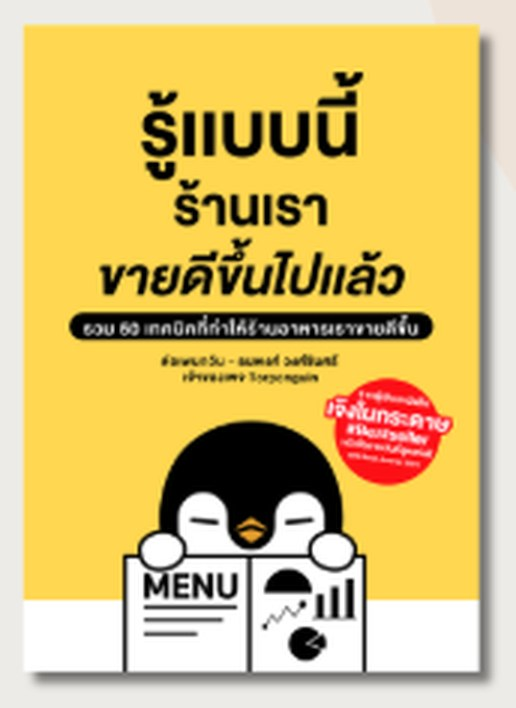
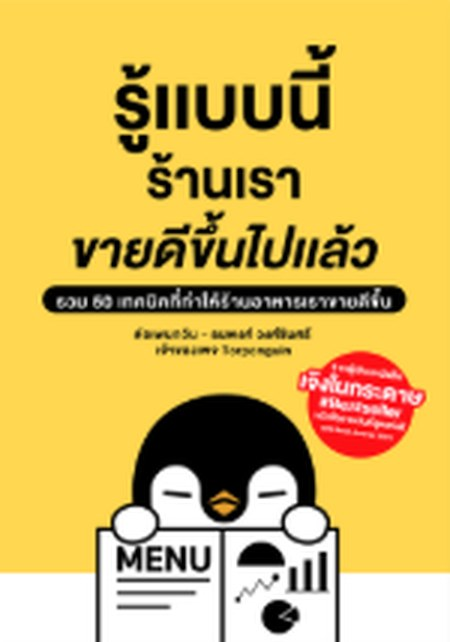
Books: tight cover crops (no frame), red Best Seller badges straddling the top edge
Claude-Session: https://claude.ai/code/session_016YPeq4VWgnC7aNMPs6tVV1

diff --git a/th/index.html b/th/index.html
@@ -781,32 +781,32 @@
   </div>
   <ol class="book-row">
     <li class="book">
-      <div class="book-cover"><span class="book-badge">Best Seller</span><img src="/ecosystem/Education/Publishing/covers/restaurant-bible.jpg" alt="Restaurant Bible" loading="lazy" decoding="async" width="516" height="708"></div>
+      <div class="book-cover"><span class="book-badge">Best Seller</span><img src="/ecosystem/Education/Publishing/covers/restaurant-bible.jpg" alt="Restaurant Bible" loading="lazy" decoding="async" width="453" height="639"></div>
       <div class="book-cat">เริ่มธุรกิจ</div>
       <div class="book-title">Restaurant Bible</div>
     </li>
     <li class="book">
-      <div class="book-cover"><img src="/ecosystem/Education/Publishing/covers/restaurant-101.jpg" alt="Restaurant 101" loading="lazy" decoding="async" width="516" height="708"></div>
+      <div class="book-cover"><img src="/ecosystem/Education/Publishing/covers/restaurant-101.jpg" alt="Restaurant 101" loading="lazy" decoding="async" width="423" height="633"></div>
       <div class="book-cat">บริหารร้าน</div>
       <div class="book-title">Restaurant 101</div>
     </li>
     <li class="book">
-      <div class="book-cover"><img src="/ecosystem/Education/Publishing/covers/food-delivery-101.jpg" alt="Food Delivery 101" loading="lazy" decoding="async" width="516" height="708"></div>
+      <div class="book-cover"><img src="/ecosystem/Education/Publishing/covers/food-delivery-101.jpg" alt="Food Delivery 101" loading="lazy" decoding="async" width="426" height="633"></div>
       <div class="book-cat">ฟู้ดเดลิเวอรี</div>
       <div class="book-title">Food Delivery 101</div>
     </li>
     <li class="book">
-      <div class="book-cover"><span class="book-badge">No.1 Best Seller</span><img src="/ecosystem/Education/Publishing/covers/jeng-nai-kradat.jpg" alt="เจ๊งในกระดาษ" loading="lazy" decoding="async" width="516" height="708"></div>
+      <div class="book-cover"><span class="book-badge">No.1 Best Seller</span><img src="/ecosystem/Education/Publishing/covers/jeng-nai-kradat.jpg" alt="เจ๊งในกระดาษ" loading="lazy" decoding="async" width="441" height="645"></div>
       <div class="book-cat">ศึกษาความเป็นไปได้</div>
       <div class="book-title">เจ๊งในกระดาษ</div>
     </li>
     <li class="book">
-      <div class="book-cover"><img src="/ecosystem/Education/Publishing/covers/marketing.jpg" alt="รู้แบบนี้ร้านเราขายดีขึ้นไปแล้ว" loading="lazy" decoding="async" width="516" height="708"></div>
+      <div class="book-cover"><img src="/ecosystem/Education/Publishing/covers/marketing.jpg" alt="รู้แบบนี้ร้านเราขายดีขึ้นไปแล้ว" loading="lazy" decoding="async" width="450" height="642"></div>
       <div class="book-cat">การตลาด</div>
       <div class="book-title">รู้แบบนี้ร้านเราขายดีขึ้นไปแล้ว</div>
     </li>
     <li class="book">
-      <div class="book-cover"><img src="/ecosystem/Education/Publishing/covers/cafe-startup.jpg" alt="Cafe Startup" loading="lazy" decoding="async" width="516" height="708"></div>
+      <div class="book-cover"><img src="/ecosystem/Education/Publishing/covers/cafe-startup.jpg" alt="Cafe Startup" loading="lazy" decoding="async" width="450" height="642"></div>
       <div class="book-cat">คาเฟ่</div>
       <div class="book-title">Cafe Startup</div>
     </li>

diff --git a/ja/index.html b/ja/index.html
@@ -781,32 +781,32 @@
   </div>
   <ol class="book-row">
     <li class="book">
-      <div class="book-cover"><span class="book-badge">ベストセラー</span><img src="/ecosystem/Education/Publishing/covers/restaurant-bible.jpg" alt="Restaurant Bible" loading="lazy" decoding="async" width="516" height="708"></div>
+      <div class="book-cover"><span class="book-badge">ベストセラー</span><img src="/ecosystem/Education/Publishing/covers/restaurant-bible.jpg" alt="Restaurant Bible" loading="lazy" decoding="async" width="453" height="639"></div>
       <div class="book-cat">開業</div>
       <div class="book-title">Restaurant Bible</div>
     </li>
     <li class="book">
-      <div class="book-cover"><img src="/ecosystem/Education/Publishing/covers/restaurant-101.jpg" alt="Restaurant 101" loading="lazy" decoding="async" width="516" height="708"></div>
+      <div class="book-cover"><img src="/ecosystem/Education/Publishing/covers/restaurant-101.jpg" alt="Restaurant 101" loading="lazy" decoding="async" width="423" height="633"></div>
       <div class="book-cat">店舗運営</div>
       <div class="book-title">Restaurant 101</div>
     </li>
     <li class="book">
-      <div class="book-cover"><img src="/ecosystem/Education/Publishing/covers/food-delivery-101.jpg" alt="Food Delivery 101" loading="lazy" decoding="async" width="516" height="708"></div>
+      <div class="book-cover"><img src="/ecosystem/Education/Publishing/covers/food-delivery-101.jpg" alt="Food Delivery 101" loading="lazy" decoding="async" width="426" height="633"></div>
       <div class="book-cat">フードデリバリー</div>
       <div class="book-title">Food Delivery 101</div>
     </li>
     <li class="book">
-      <div class="book-cover"><span class="book-badge">No.1 ベストセラー</span><img src="/ecosystem/Education/Publishing/covers/jeng-nai-kradat.jpg" alt="เจ๊งในกระดาษ" loading="lazy" decoding="async" width="516" height="708"></div>
+      <div class="book-cover"><span class="book-badge">No.1 ベストセラー</span><img src="/ecosystem/Education/Publishing/covers/jeng-nai-kradat.jpg" alt="เจ๊งในกระดาษ" loading="lazy" decoding="async" width="441" height="645"></div>
       <div class="book-cat">フィジビリティスタディ</div>
       <div class="book-title">เจ๊งในกระดาษ</div>
     </li>
     <li class="book">
-      <div class="book-cover"><img src="/ecosystem/Education/Publishing/covers/marketing.jpg" alt="รู้แบบนี้ร้านเราขายดีขึ้นไปแล้ว" loading="lazy" decoding="async" width="516" height="708"></div>
+      <div class="book-cover"><img src="/ecosystem/Education/Publishing/covers/marketing.jpg" alt="รู้แบบนี้ร้านเราขายดีขึ้นไปแล้ว" loading="lazy" decoding="async" width="450" height="642"></div>
       <div class="book-cat">マーケティング</div>
       <div class="book-title">รู้แบบนี้ร้านเราขายดีขึ้นไปแล้ว</div>
     </li>
     <li class="book">
-      <div class="book-cover"><img src="/ecosystem/Education/Publishing/covers/cafe-startup.jpg" alt="Cafe Startup" loading="lazy" decoding="async" width="516" height="708"></div>
+      <div class="book-cover"><img src="/ecosystem/Education/Publishing/covers/cafe-startup.jpg" alt="Cafe Startup" loading="lazy" decoding="async" width="450" height="642"></div>
       <div class="book-cat">カフェ</div>
       <div class="book-title">Cafe Startup</div>
     </li>

diff --git a/index.html b/index.html
@@ -780,32 +780,32 @@
   </div>
   <ol class="book-row">
     <li class="book">
-      <div class="book-cover"><span class="book-badge">Best Seller</span><img src="/ecosystem/Education/Publishing/covers/restaurant-bible.jpg" alt="Restaurant Bible" loading="lazy" decoding="async" width="516" height="708"></div>
+      <div class="book-cover"><span class="book-badge">Best Seller</span><img src="/ecosystem/Education/Publishing/covers/restaurant-bible.jpg" alt="Restaurant Bible" loading="lazy" decoding="async" width="453" height="639"></div>
       <div class="book-cat">Startup</div>
       <div class="book-title">Restaurant Bible</div>
     </li>
     <li class="book">
-      <div class="book-cover"><img src="/ecosystem/Education/Publishing/covers/restaurant-101.jpg" alt="Restaurant 101" loading="lazy" decoding="async" width="516" height="708"></div>
+      <div class="book-cover"><img src="/ecosystem/Education/Publishing/covers/restaurant-101.jpg" alt="Restaurant 101" loading="lazy" decoding="async" width="423" height="633"></div>
       <div class="book-cat">Operation</div>
       <div class="book-title">Restaurant 101</div>
     </li>
     <li class="book">
-      <div class="book-cover"><img src="/ecosystem/Education/Publishing/covers/food-delivery-101.jpg" alt="Food Delivery 101" loading="lazy" decoding="async" width="516" height="708"></div>
+      <div class="book-cover"><img src="/ecosystem/Education/Publishing/covers/food-delivery-101.jpg" alt="Food Delivery 101" loading="lazy" decoding="async" width="426" height="633"></div>
       <div class="book-cat">Food Delivery</div>
       <div class="book-title">Food Delivery 101</div>
     </li>
     <li class="book">
-      <div class="book-cover"><span class="book-badge">No.1 Best Seller</span><img src="/ecosystem/Education/Publishing/covers/jeng-nai-kradat.jpg" alt="เจ๊งในกระดาษ" loading="lazy" decoding="async" width="516" height="708"></div>
+      <div class="book-cover"><span class="book-badge">No.1 Best Seller</span><img src="/ecosystem/Education/Publishing/covers/jeng-nai-kradat.jpg" alt="เจ๊งในกระดาษ" loading="lazy" decoding="async" width="441" height="645"></div>
       <div class="book-cat">Feasibility Study</div>
       <div class="book-title">เจ๊งในกระดาษ</div>
     </li>
     <li class="book">
-      <div class="book-cover"><img src="/ecosystem/Education/Publishing/covers/marketing.jpg" alt="รู้แบบนี้ร้านเราขายดีขึ้นไปแล้ว" loading="lazy" decoding="async" width="516" height="708"></div>
+      <div class="book-cover"><img src="/ecosystem/Education/Publishing/covers/marketing.jpg" alt="รู้แบบนี้ร้านเราขายดีขึ้นไปแล้ว" loading="lazy" decoding="async" width="450" height="642"></div>
       <div class="book-cat">Marketing</div>
       <div class="book-title">รู้แบบนี้ร้านเราขายดีขึ้นไปแล้ว</div>
     </li>
     <li class="book">
-      <div class="book-cover"><img src="/ecosystem/Education/Publishing/covers/cafe-startup.jpg" alt="Cafe Startup" loading="lazy" decoding="async" width="516" height="708"></div>
+      <div class="book-cover"><img src="/ecosystem/Education/Publishing/covers/cafe-startup.jpg" alt="Cafe Startup" loading="lazy" decoding="async" width="450" height="642"></div>
       <div class="book-cat">Café</div>
       <div class="book-title">Cafe Startup</div>
     </li>

diff --git a/zh/index.html b/zh/index.html
@@ -781,32 +781,32 @@
   </div>
   <ol class="book-row">
     <li class="book">
-      <div class="book-cover"><span class="book-badge">畅销书</span><img src="/ecosystem/Education/Publishing/covers/restaurant-bible.jpg" alt="Restaurant Bible" loading="lazy" decoding="async" width="516" height="708"></div>
+      <div class="book-cover"><span class="book-badge">畅销书</span><img src="/ecosystem/Education/Publishing/covers/restaurant-bible.jpg" alt="Restaurant Bible" loading="lazy" decoding="async" width="453" height="639"></div>
       <div class="book-cat">创业</div>
       <div class="book-title">Restaurant Bible</div>
     </li>
     <li class="book">
-      <div class="book-cover"><img src="/ecosystem/Education/Publishing/covers/restaurant-101.jpg" alt="Restaurant 101" loading="lazy" decoding="async" width="516" height="708"></div>
+      <div class="book-cover"><img src="/ecosystem/Education/Publishing/covers/restaurant-101.jpg" alt="Restaurant 101" loading="lazy" decoding="async" width="423" height="633"></div>
       <div class="book-cat">运营管理</div>
       <div class="book-title">Restaurant 101</div>
     </li>
     <li class="book">
-      <div class="book-cover"><img src="/ecosystem/Education/Publishing/covers/food-delivery-101.jpg" alt="Food Delivery 101" loading="lazy" decoding="async" width="516" height="708"></div>
+      <div class="book-cover"><img src="/ecosystem/Education/Publishing/covers/food-delivery-101.jpg" alt="Food Delivery 101" loading="lazy" decoding="async" width="426" height="633"></div>
       <div class="book-cat">外卖</div>
       <div class="book-title">Food Delivery 101</div>
     </li>
     <li class="book">
-      <div class="book-cover"><span class="book-badge">No.1 畅销书</span><img src="/ecosystem/Education/Publishing/covers/jeng-nai-kradat.jpg" alt="เจ๊งในกระดาษ" loading="lazy" decoding="async" width="516" height="708"></div>
+      <div class="book-cover"><span class="book-badge">No.1 畅销书</span><img src="/ecosystem/Education/Publishing/covers/jeng-nai-kradat.jpg" alt="เจ๊งในกระดาษ" loading="lazy" decoding="async" width="441" height="645"></div>
       <div class="book-cat">可行性研究</div>
       <div class="book-title">เจ๊งในกระดาษ</div>
     </li>
     <li class="book">
-      <div class="book-cover"><img src="/ecosystem/Education/Publishing/covers/marketing.jpg" alt="รู้แบบนี้ร้านเราขายดีขึ้นไปแล้ว" loading="lazy" decoding="async" width="516" height="708"></div>
+      <div class="book-cover"><img src="/ecosystem/Education/Publishing/covers/marketing.jpg" alt="รู้แบบนี้ร้านเราขายดีขึ้นไปแล้ว" loading="lazy" decoding="async" width="450" height="642"></div>
       <div class="book-cat">营销</div>
       <div class="book-title">รู้แบบนี้ร้านเราขายดีขึ้นไปแล้ว</div>
     </li>
     <li class="book">
-      <div class="book-cover"><img src="/ecosystem/Education/Publishing/covers/cafe-startup.jpg" alt="Cafe Startup" loading="lazy" decoding="async" width="516" height="708"></div>
+      <div class="book-cover"><img src="/ecosystem/Education/Publishing/covers/cafe-startup.jpg" alt="Cafe Startup" loading="lazy" decoding="async" width="450" height="642"></div>
       <div class="book-cat">咖啡馆</div>
       <div class="book-title">Cafe Startup</div>
     </li>

diff --git a/styles.css b/styles.css
@@ -2466,18 +2466,19 @@ html[lang="en"] .hero-title{font-size:clamp(2rem,4.2vw,4.4rem)}
 
 /* Thought Leadership: หนังสือ 6 เล่ม แทนการ์ดตัวเลขเดิม (ตัวเลขซ้ำกับ How it works) */
 .book-row{list-style:none;margin:0;padding:0;position:relative;display:grid;grid-template-columns:repeat(6,minmax(0,1fr));gap:18px}
-.book-cover{position:relative;aspect-ratio:172/236;border-radius:12px;overflow:hidden;background:#edebe7;box-shadow:0 18px 40px -18px rgba(0,0,0,.7)}
-.book-cover img{display:block;width:100%;height:100%;object-fit:cover;transition:transform .5s ease}
-.book:hover .book-cover img{transform:scale(1.04)}
-.book-badge{position:absolute;top:10px;left:10px;z-index:1;padding:5px 10px;border-radius:100px;background:var(--accent);color:#121110;font-size:11px;font-weight:700;letter-spacing:.02em;white-space:nowrap;box-shadow:0 4px 14px rgba(0,0,0,.35)}
+.book-cover{position:relative;aspect-ratio:.69;transition:transform .4s ease}
+.book-cover img{display:block;width:100%;height:100%;object-fit:fill;border-radius:3px;box-shadow:0 22px 44px -16px rgba(0,0,0,.8),0 2px 6px rgba(0,0,0,.35)}
+.book:hover .book-cover{transform:translateY(-6px)}
+/* ป้าย Best Seller: สีแดง ลอยคร่อมขอบบนของปก ขอบสีพื้นหลัง + เงาแดงให้แยกออกจากพื้น */
+.book-badge{position:absolute;top:0;left:50%;z-index:1;transform:translate(-50%,-50%);padding:6px 14px;border-radius:100px;background:#e3262b;color:#fff;font-size:12px;font-weight:700;letter-spacing:.02em;white-space:nowrap;box-shadow:0 0 0 3px var(--bg),0 8px 24px rgba(227,38,43,.6)}
 .book-cat{margin-top:16px;font-size:12px;letter-spacing:.12em;text-transform:uppercase;color:var(--accent)}
 .book-title{margin-top:6px;font-size:14px;line-height:1.45;color:var(--ink-mute)}
 @media (max-width:1100px){.book-row{grid-template-columns:repeat(3,minmax(0,1fr));gap:28px 18px}}
 @media (max-width:620px){
-  .book-row{display:flex;overflow-x:auto;scroll-snap-type:x mandatory;gap:14px;margin:0;padding:0 0 8px;scrollbar-width:none}
+  .book-row{display:flex;overflow-x:auto;scroll-snap-type:x mandatory;gap:14px;margin:0;padding:18px 0 8px;scrollbar-width:none}
   .book-row::-webkit-scrollbar{display:none}
   .book{flex:0 0 42%;scroll-snap-align:start}
   .book-cat{margin-top:12px}
-  .book-badge{font-size:10px;padding:4px 8px;top:8px;left:8px}
+  .book-badge{font-size:11px;padding:5px 10px}
 }
 html[lang^="th"] .book-cat,html[lang^="zh"] .book-cat,html[lang^="ja"] .book-cat{letter-spacing:.02em;font-size:13px}
